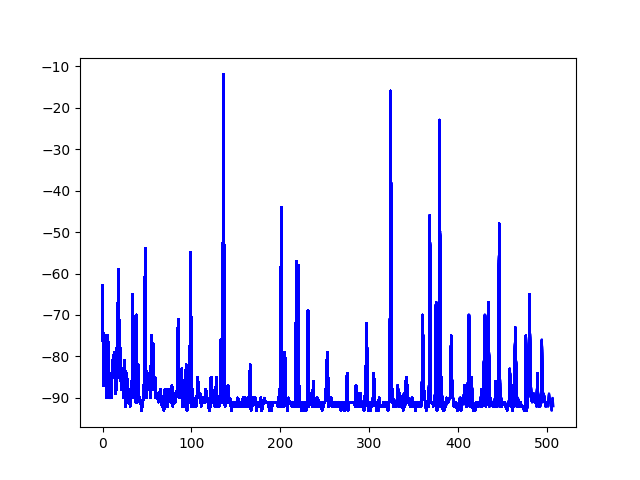
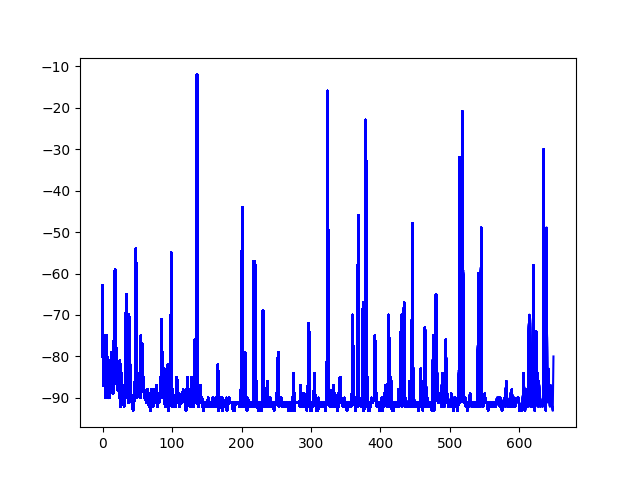
use relu for activation function and enlarge the batch size

diff --git a/Code 2. Cartpole/1. DQN/working/Cartpole_woongwon.py b/Code 2. Cartpole/1. DQN/working/Cartpole_woongwon.py
@@ -18,23 +18,27 @@ class DQNAgent:
         self.action_size = action_size
 
         self.discount_factor = 0.99
-        self.learning_rate = 0.01
+        self.learning_rate = 0.001
         self.epsilon = 1.0
         self.epsilon_decay = 0.999
-        self.epsilon_min = 0.05
+        self.epsilon_min = 0.01
 
         self.model = self.build_model()
-        self.memory = deque(maxlen=50000)
-        self.batch_size = 10
-        self.train_start = 12000
+        self.target_model = self.build_model()
+        self.memory = deque(maxlen=2000)
+        self.batch_size = 64
+        self.train_start = 1000
 
     def build_model(self):
         model = Sequential()
-        model.add(Dense(16, input_dim=self.state_size, activation='relu', kernel_initializer='he_uniform'))
+        model.add(Dense(32, input_dim=self.state_size, activation='relu', kernel_initializer='he_uniform'))
         model.add(Dense(16, activation='relu', kernel_initializer='he_uniform'))
         model.add(Dense(self.action_size, activation='linear', kernel_initializer='he_uniform'))
         model.compile(loss='mse', optimizer=Adam(lr=self.learning_rate))
         return model
+
+    def update_target_model(self):
+        self.target_model.set_weights(self.model.get_weights())
 
     def get_action(self, state):
         if np.random.rand() <= self.epsilon:
@@ -66,7 +70,7 @@ class DQNAgent:
                 target[action] = reward
             else:
                 target[action] = reward + self.discount_factor * \
-                                          np.amax(self.model.predict(next_state)[0])
+                                          np.amax(self.target_model.predict(next_state)[0])
             update_input[i] = state
             update_target[i] = target
 
@@ -93,6 +97,7 @@ if __name__ == "__main__":
         score = 0
         state = env.reset()
         state = np.reshape(state, [1, state_size])
+        agent.update_target_model()
 
         while not done:
             if agent.render == "True":
@@ -114,10 +119,10 @@ if __name__ == "__main__":
 
             if done:
                 env.reset()
-
+                agent.update_target_model()
                 scores.append(score)
                 episodes.append(e)
                 pylab.plot(episodes, scores, 'b')
-                pylab.savefig("./save/Cartpole_woongwon4.png")
+                pylab.savefig("./save/Cartpole_woongwon5.png")
                 print("episode:", e, "  score:", score, "  memory length:", len(agent.memory),
                       "  epsilon:", agent.epsilon)
